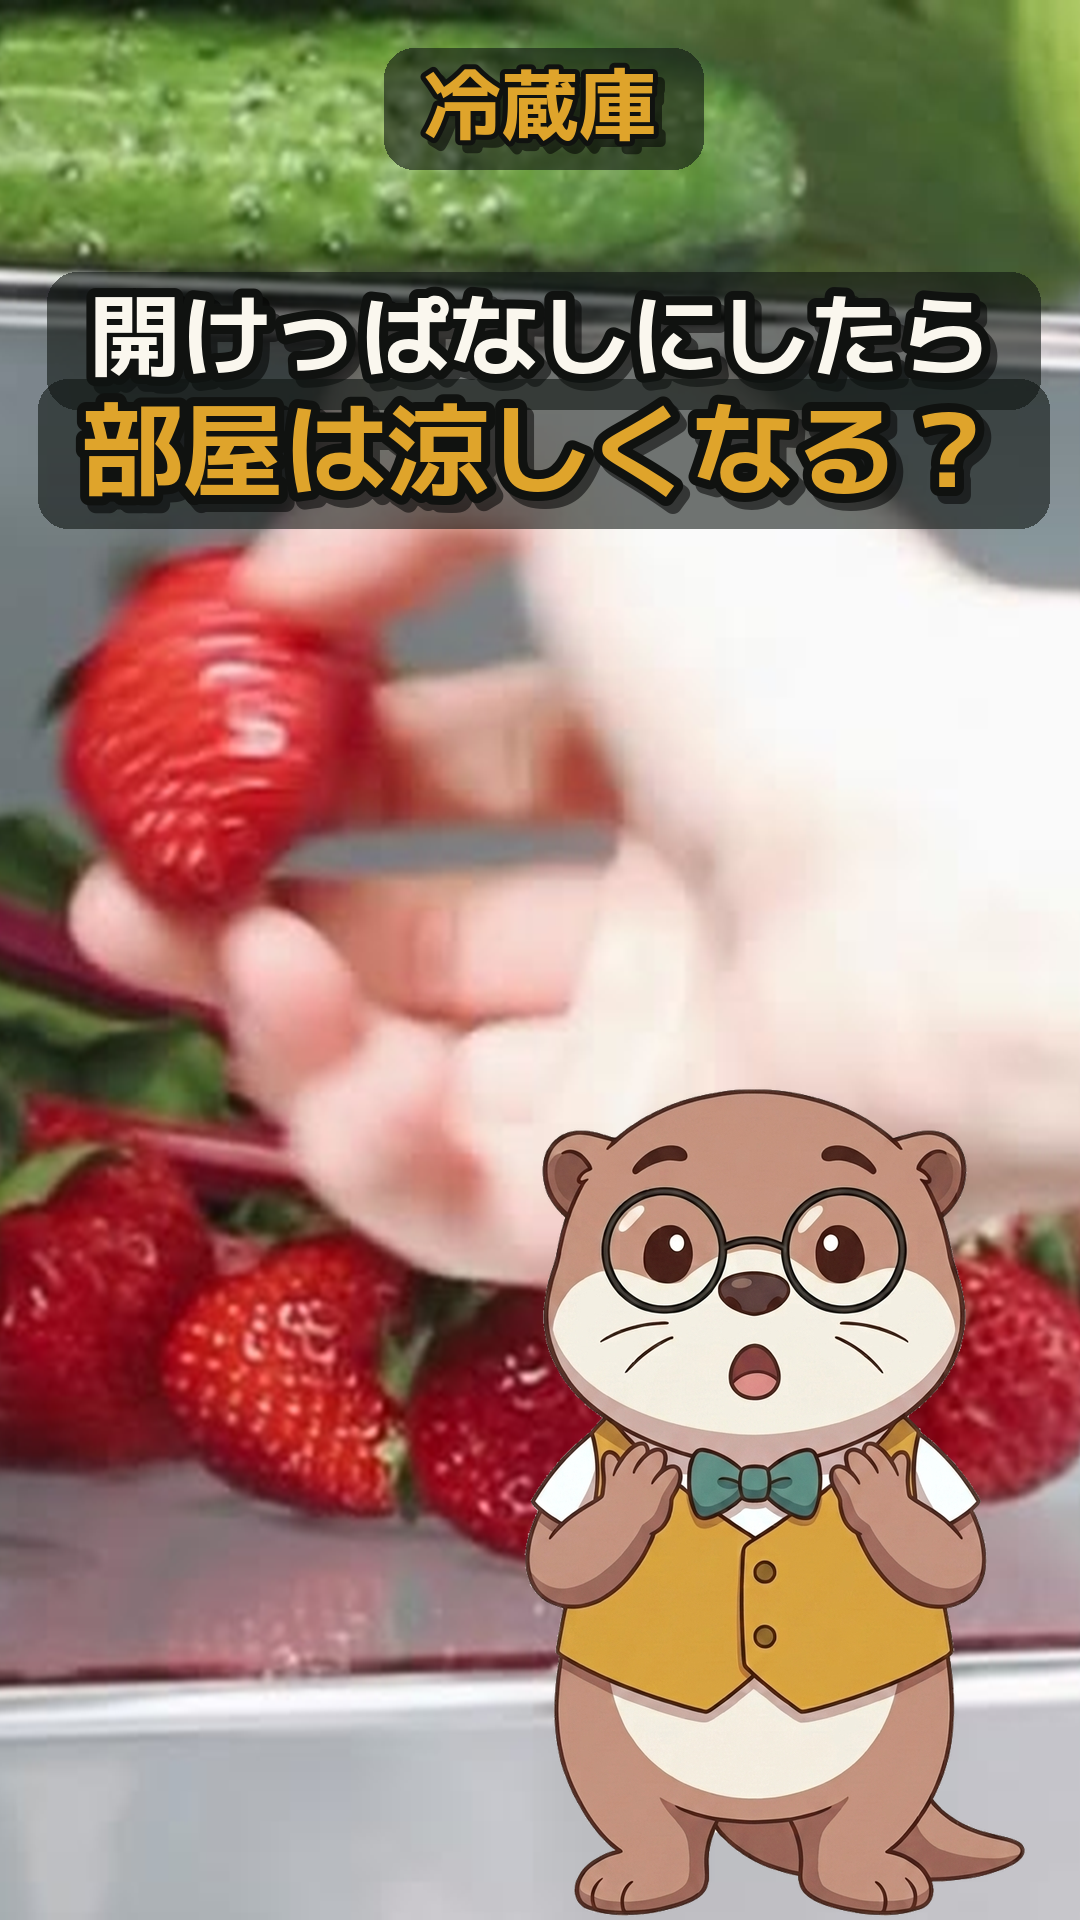
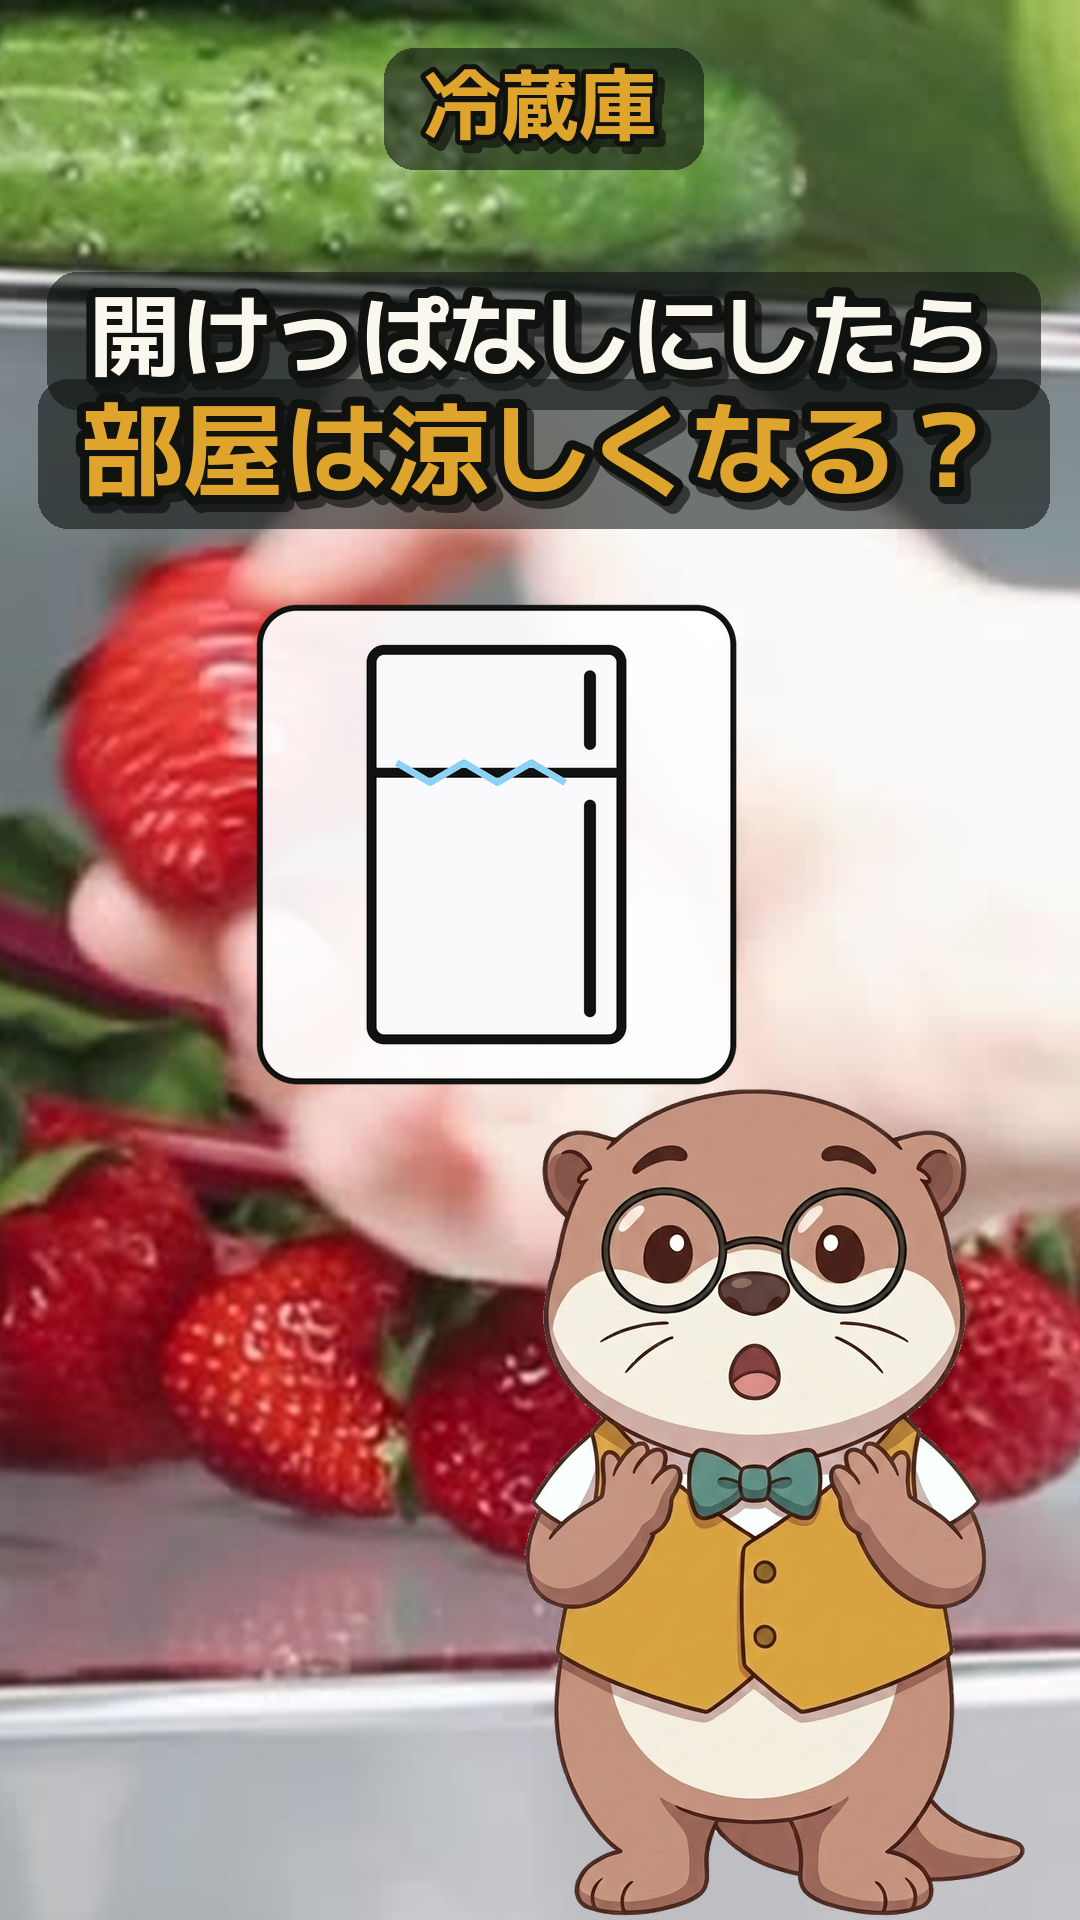
第5話サムネの冷蔵庫アイコンを追加、実写4本の見比べ結果を記録
実写4本（fridge/fridge2/fridge3/fridge4）を親指サイズで見比べたが、
fridgeは野菜のアップ、fridge2は海外の業務用ガラス扉、fridge3/4は
冷蔵庫が画面に映らない、でどれもサムネ単体では「冷蔵庫」と読めな
かった。実写は明るさ確保の背景として残しつつ、太い輪郭・氷色の
仕切り線を入れた冷蔵庫アイコンを前面に重ねて一目で伝わるようにした。
160px相当に縮小して確認済み。

Claude-Session: https://claude.ai/code/session_01Tpidr51ynK34UA2s2MjVm2

Changed region(s): [[0.2139, 0.3125, 0.7028, 0.5625]]

diff --git a/pipeline/mkthumb.py b/pipeline/mkthumb.py
@@ -34,7 +34,7 @@
 import os
 from PIL import Image, ImageDraw
 import render
-from render import CHALK, MUSTARD, BLACK
+from render import CHALK, MUSTARD, BLACK, CRIMSON
 
 HERE = os.path.dirname(os.path.abspath(__file__))
 OUT = os.path.join(HERE, 'brand')
@@ -49,11 +49,13 @@ EPS = [
     dict(file='thumb_ep02.png', label='飛行機',
          bg='clip:plane', lines=['9割が勘違い', '翼の形は関係ない'],
          fig=None, face='surprise'),
-    # 実写が届いたので背景に敷く。20本の実測は 実写13/20・明るい16/20 で、
-    # 黒板は少数派だった。図は消す（実写の上に重ねると両方読めない）。
+    # 実写4本（fridge/2/3/4）を1コマずつ見比べたが、どれも「野菜のアップ」
+    # 「海外の業務用ガラス扉」で、親指サイズでは冷蔵庫と読めなかった。
+    # 背景はいちばん明るい fridge のまま使い、太い輪郭のアイコンを重ねて
+    # 「これは冷蔵庫の話だ」を一目で伝える。
     dict(file='thumb_ep05.png', label='冷蔵庫',
          bg='clip:fridge', lines=['開けっぱなしにしたら', '部屋は涼しくなる？'],
-         fig=None, face='surprise'),
+         fig=('icon:fridge', 0), face='surprise'),
     # 冷蔵庫の実写がまだ無いので黒板。届いたら bg='clip:fridge' にする。
     # 20本の実測では 実写13/20・明るい16/20 で、黒板は少数派。
     dict(file='thumb_ep04.png', label='冷蔵庫',
@@ -78,8 +80,66 @@ LH = 1.16            # 行送り（文字の高さに対する倍率）
 CHAR = dict(w=0.66, cx=0.70, foot=1.03)
 
 
+ICE = (140, 210, 245, 255)
+
+def fridge_icon(w, h):
+    """一目で「冷蔵庫」と分かる簡易アイコン。実写(iyxtimg不可)の代わりに描く。
+
+    第5話は実写4本を1コマずつ見比べたが、どれも「野菜のアップ」「海外の
+    業務用ガラス扉冷蔵庫」で、サムネの親指サイズでは冷蔵庫と読めなかった
+    （視聴者コメント相当のAI講評でも同じ指摘）。実写を諦めて、太い輪郭の
+    アイコンに切り替える。板を敷いて、どんな背景の上でも潰れないようにする。
+    """
+    S = 4
+    im = Image.new('RGBA', (w * S, h * S), (0, 0, 0, 0))
+    d = ImageDraw.Draw(im)
+    W2, H2 = w * S, h * S
+
+    # 背景の板（実写の上に乗せても輪郭が潰れないように）
+    pad = int(W2 * 0.02)
+    d.rounded_rectangle((pad, pad, W2 - pad, H2 - pad), radius=int(W2 * 0.08),
+                         fill=(255, 255, 255, 235), outline=BLACK, width=int(W2 * 0.012))
+
+    # 本体
+    bx0, by0 = int(W2 * 0.24), int(H2 * 0.10)
+    bx1, by1 = int(W2 * 0.76), int(H2 * 0.90)
+    ow = max(6, int(W2 * 0.020))
+    d.rounded_rectangle((bx0, by0, bx1, by1), radius=int(W2 * 0.035),
+                         fill=(250, 250, 252, 255), outline=BLACK, width=ow)
+
+    # 冷凍室と冷蔵室の仕切り線
+    split_y = by0 + int((by1 - by0) * 0.32)
+    d.line((bx0 + ow, split_y, bx1 - ow, split_y), fill=BLACK, width=ow)
+
+    # 取っ手（縦バー）。両室とも右寄りに1本ずつ
+    hx = bx1 - int((bx1 - bx0) * 0.14)
+    hw = max(4, int(W2 * 0.012))
+    d.rounded_rectangle((hx - hw, by0 + int((split_y - by0) * 0.20),
+                          hx + hw, split_y - int((split_y - by0) * 0.18)),
+                         radius=hw, fill=BLACK)
+    d.rounded_rectangle((hx - hw, split_y + int((by1 - split_y) * 0.10),
+                          hx + hw, by1 - int((by1 - split_y) * 0.10)),
+                         radius=hw, fill=BLACK)
+
+    # ひんやりを示す水色のギザギザ（雪）を扉のすき間に
+    zig_y = split_y
+    zx0, zx1 = bx0 + int(W2 * 0.06), hx - int(W2 * 0.05)
+    n = 5
+    pts = []
+    for i in range(n + 1):
+        x = zx0 + (zx1 - zx0) * i / n
+        y = zig_y + (-1 if i % 2 == 0 else 1) * int(H2 * 0.02)
+        pts.append((x, y))
+    d.line(pts, fill=ICE, width=max(4, int(W2 * 0.014)), joint='curve')
+
+    im = im.resize((w, h), Image.LANCZOS)
+    return im
+
+
 def figure(spec):
     name, idx = spec
+    if name == 'icon:fridge':
+        return fridge_icon(680, 680)
     if name.endswith('/'):
         fs = render.clip_frames(name.rstrip('/')) if False else None
         d = os.path.join(render.CLIP_DIR, name.rstrip('/'))
